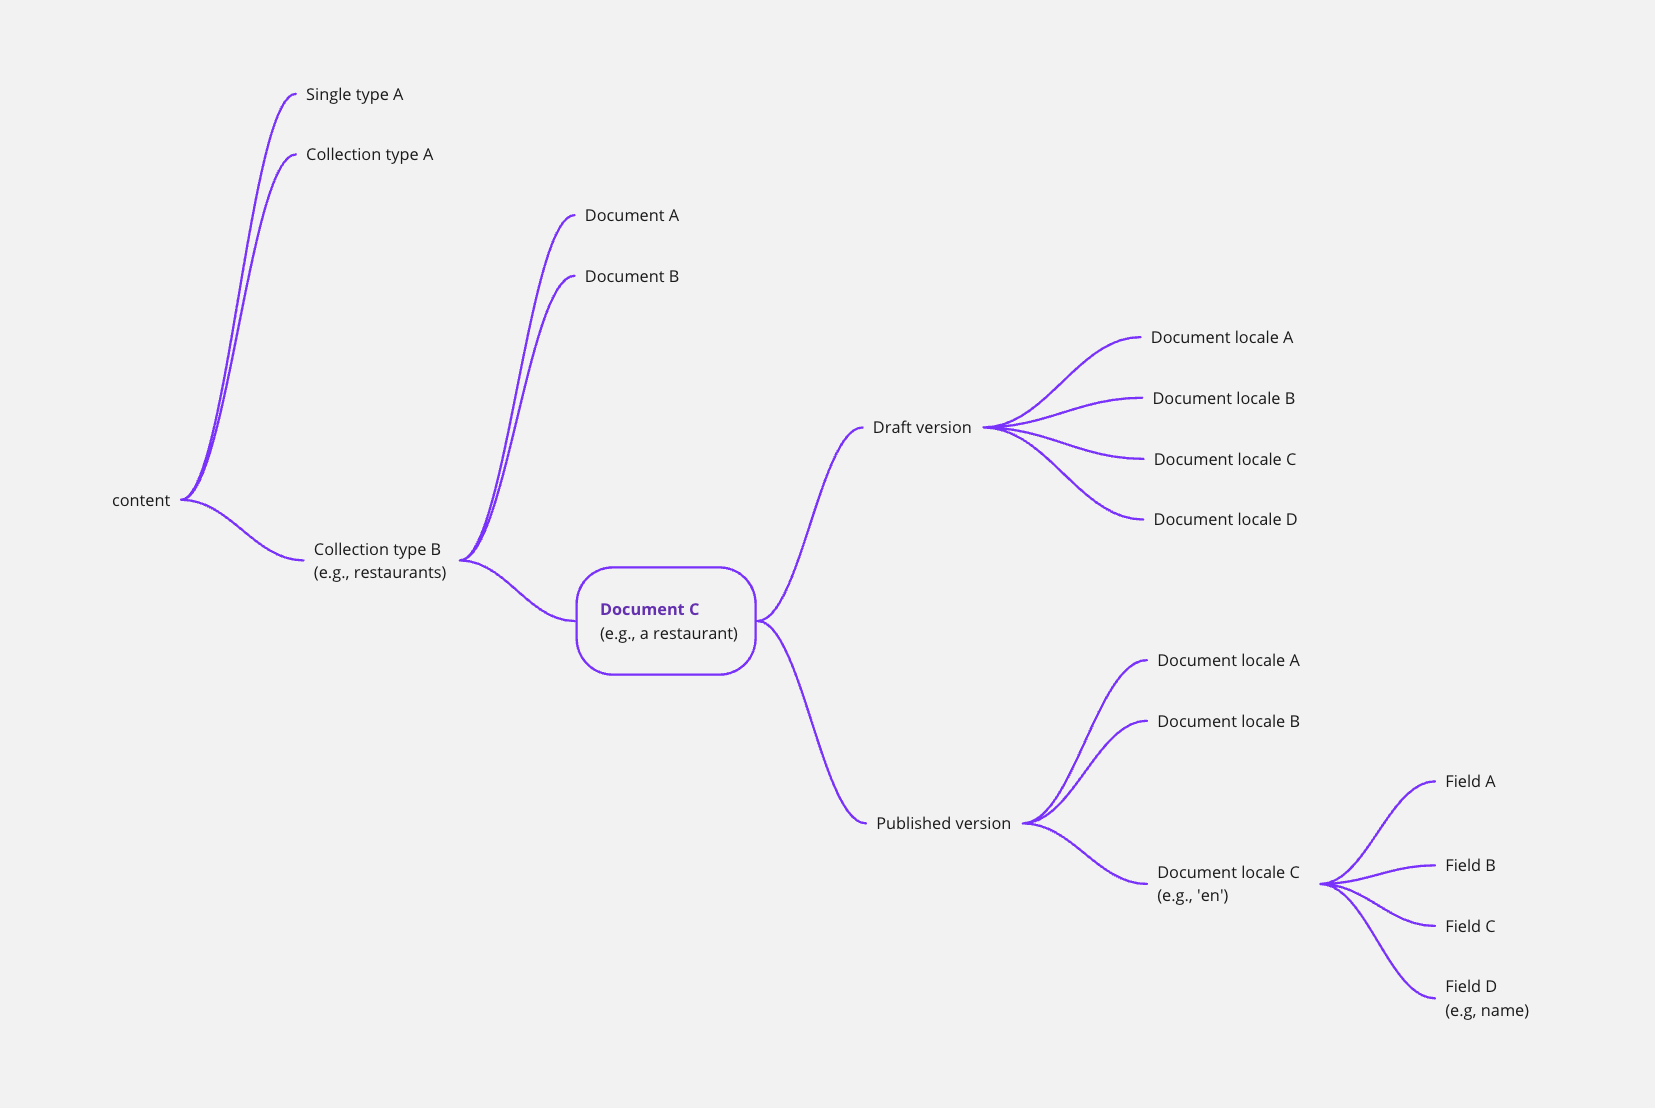
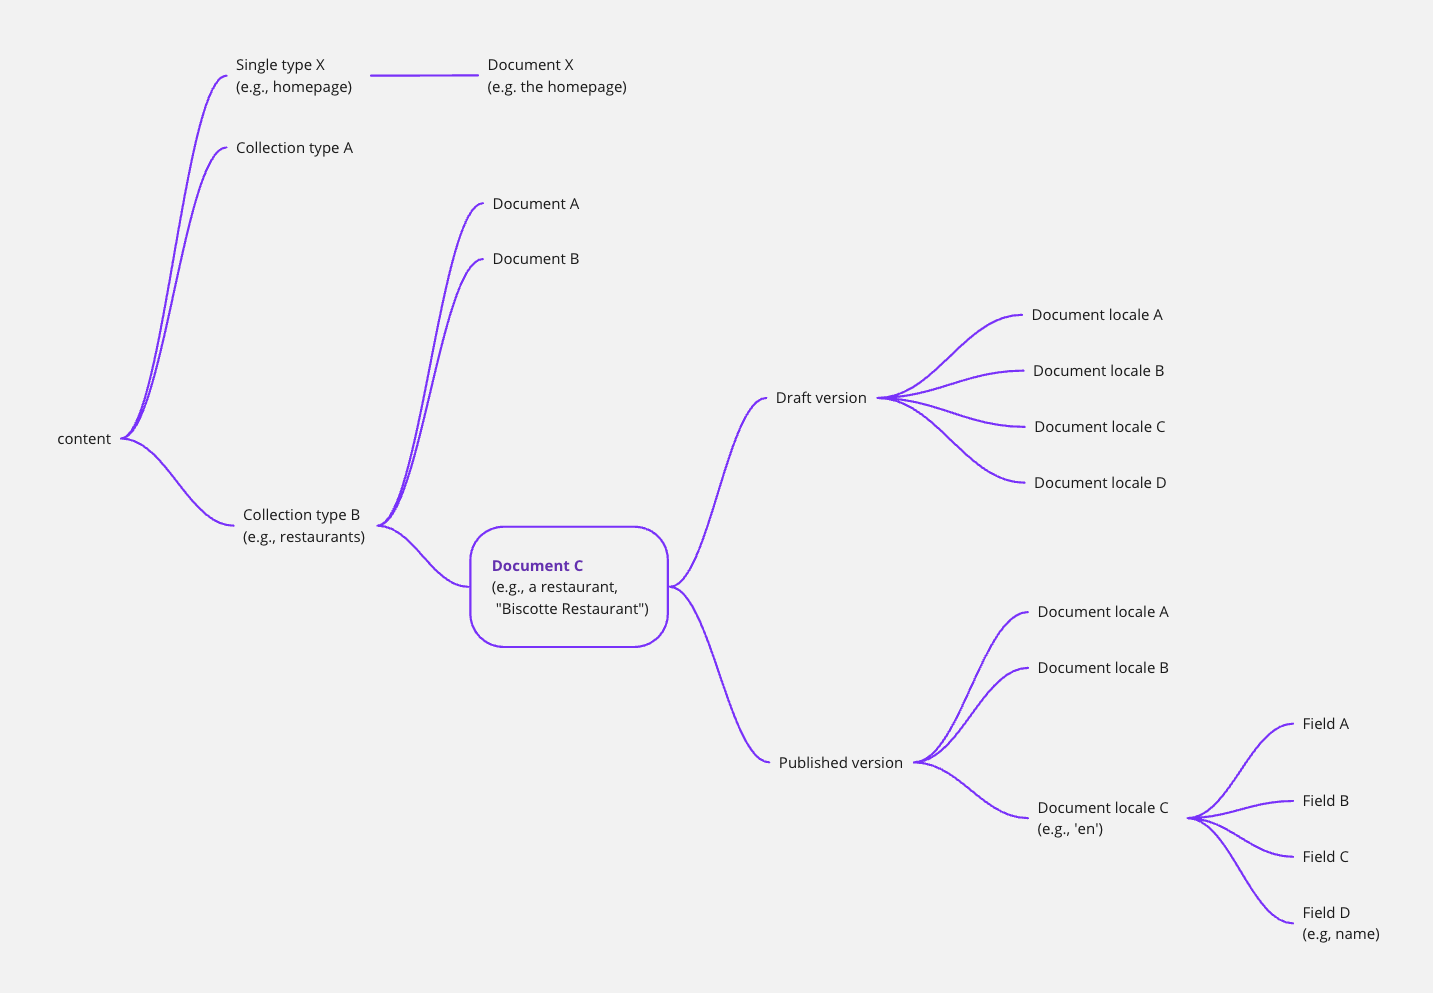
Improve description and diagram

diff --git a/docusaurus/docs/dev-docs/api/document.md b/docusaurus/docs/dev-docs/api/document.md
@@ -8,6 +8,8 @@ displayed_sidebar: devDocsSidebar
 
 A document in Strapi v5 contains all the variations of a unique piece of content.
 
+A single type contains a unique document, and a collection type can contain several documents.
+
 ![](/img/assets/apis/document.png)
 
 - A document can have a `published` version and a `draft` **version**.
@@ -18,9 +20,9 @@ A document in Strapi v5 contains all the variations of a unique piece of content
 
 [FoodAdvisor](https://github.com/strapi/foodadvisor), Strapi's official demo application, is a website listing restaurants around the world. FoodAdvisor's content includes multiple content-types:
 
-- The homepage is a single type. A single type includes a unique document.
-- "Restaurants" is a collection type, and each restaurant is represented as a document in Strapi v5.
-- The "Biscotte Restaurant" is a document, and this document can include all of the following content variations:
+- The homepage is a single type, so there's only one document for the homepage.
+- "Restaurants" is a collection type, and each restaurant (i.e., each item from the collection type) is represented as a document in Strapi v5.
+- The "Biscotte Restaurant" is one of the documents from the "Restaurants" collection type. The "Biscotte Restaurant" document can include all of the following content variations:
   - The "Biscotte Restaurant" document has 2 different versions, a published version that can be seen on the website, and a draft version with updates not ready to be published yet.
   - The published version of the "Biscotte Restaurant" document has 3 document locales: one for English, one for French, and one for Spanish.
   - Each document locale of the "Biscotte Restaurant" document includes multiple fields, such as the name of the restaurant, a short description, and opening hours.
